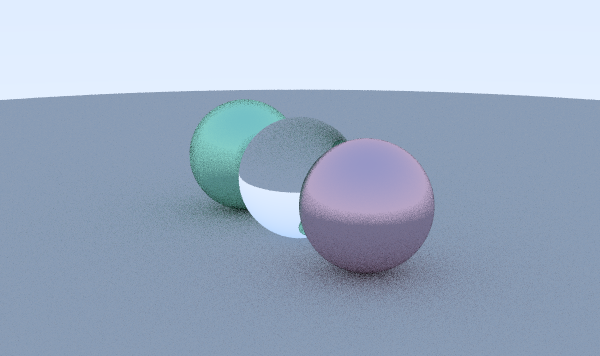
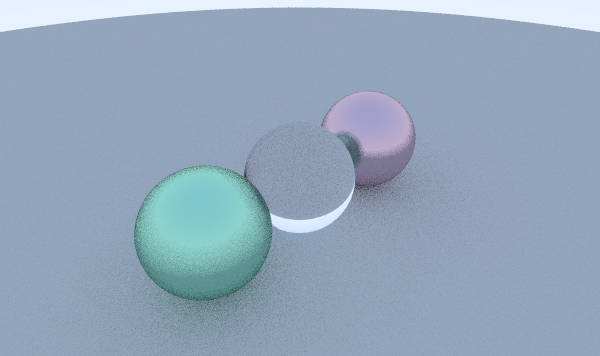
added scenes

diff --git a/src/main.c b/src/main.c
@@ -1,3 +1,4 @@
+#define VF_CALC_EXEC_TIME_SCN
 #include "../include/vfrt/vfrt.h"
 
 #define IMGW 600
@@ -67,15 +68,33 @@ static void randomScene(scene* s)
     addElementInScene(s, setSphere(setvec3(4.0f, 1.0f, 0.0f), 1.0f, setMetalMaterial(setvec3(0.7f, 0.6f, 0.5f), 0.0f)));
 }
 
+static void cubeScene(scene* s)
+{
+    float spacing = 0.45f;
+    for (int x = 0; x < 6; x++)
+    {
+        for (int y = 0; y < 6; y++)
+        {
+            for (int z = 0; z < 6; z++)
+            {
+                vec3 pos = setvec3((x - 3) * spacing, y * spacing, (z - 3) * spacing);
+                vec3 color = setvec3(x / 6.0f, y / 6.0f, z / 6.0f);
+
+                addElementInScene(s, setSphere(pos, 0.18f, setMetalMaterial(color, 0.05f)));
+            }
+        }
+    }
+}
+
 int main() 
 {
     initRenderImg(IMGW, IMGH);
 
     camera c;
-    initCameraRender(&c, IMGW, IMGH, 20.0f, setvec3(13.0f, 2.0f, 3.0f), setvec3(0.0f, 0.0f, 0.0f), setvec3(0.0f, 1.0f, 0.0f));
+    initCameraRender(&c, IMGW, IMGH, 50.0f, setvec3(-2.0f, 2.0f, 1.0f), setvec3(0.0f, 0.0f, -1.0f), setvec3(0.0f, 1.0f, 0.0f));
 
     scene s = {0};
-    randomScene(&s);
+    scene0(&s);
     renderSceneWithBvh(&s);
 
     calcSceneExecTime((void*)renderSceneImg, &c, &s, IMGW, IMGH, SAMPLES, MAX_DEPTH);

diff --git a/src/scene.c b/src/scene.c
@@ -50,7 +50,6 @@ void renderSceneWithBvh(scene* s)
 
 static bool hittRenderScene(scene* sn, ray* r, float tmin, float tmax, hrecord* h)
 {
-
 #ifdef VF_INC_BVH
     if (sn->bvhb)
         return bvhHitt(&sn->tree, sn->s, r, h, tmin, tmax);

diff --git a/include/vfrt/scene/scene.h b/include/vfrt/scene/scene.h
@@ -14,8 +14,11 @@ typedef struct
 {
     sphere s[MSPHERES];
     int count;
+
+#ifdef VF_INC_BVH
     bvh tree;
     int bvhb;
+#endif
 } scene;
 
 ray makeSetRay(vec3 origin, vec3 direction);
